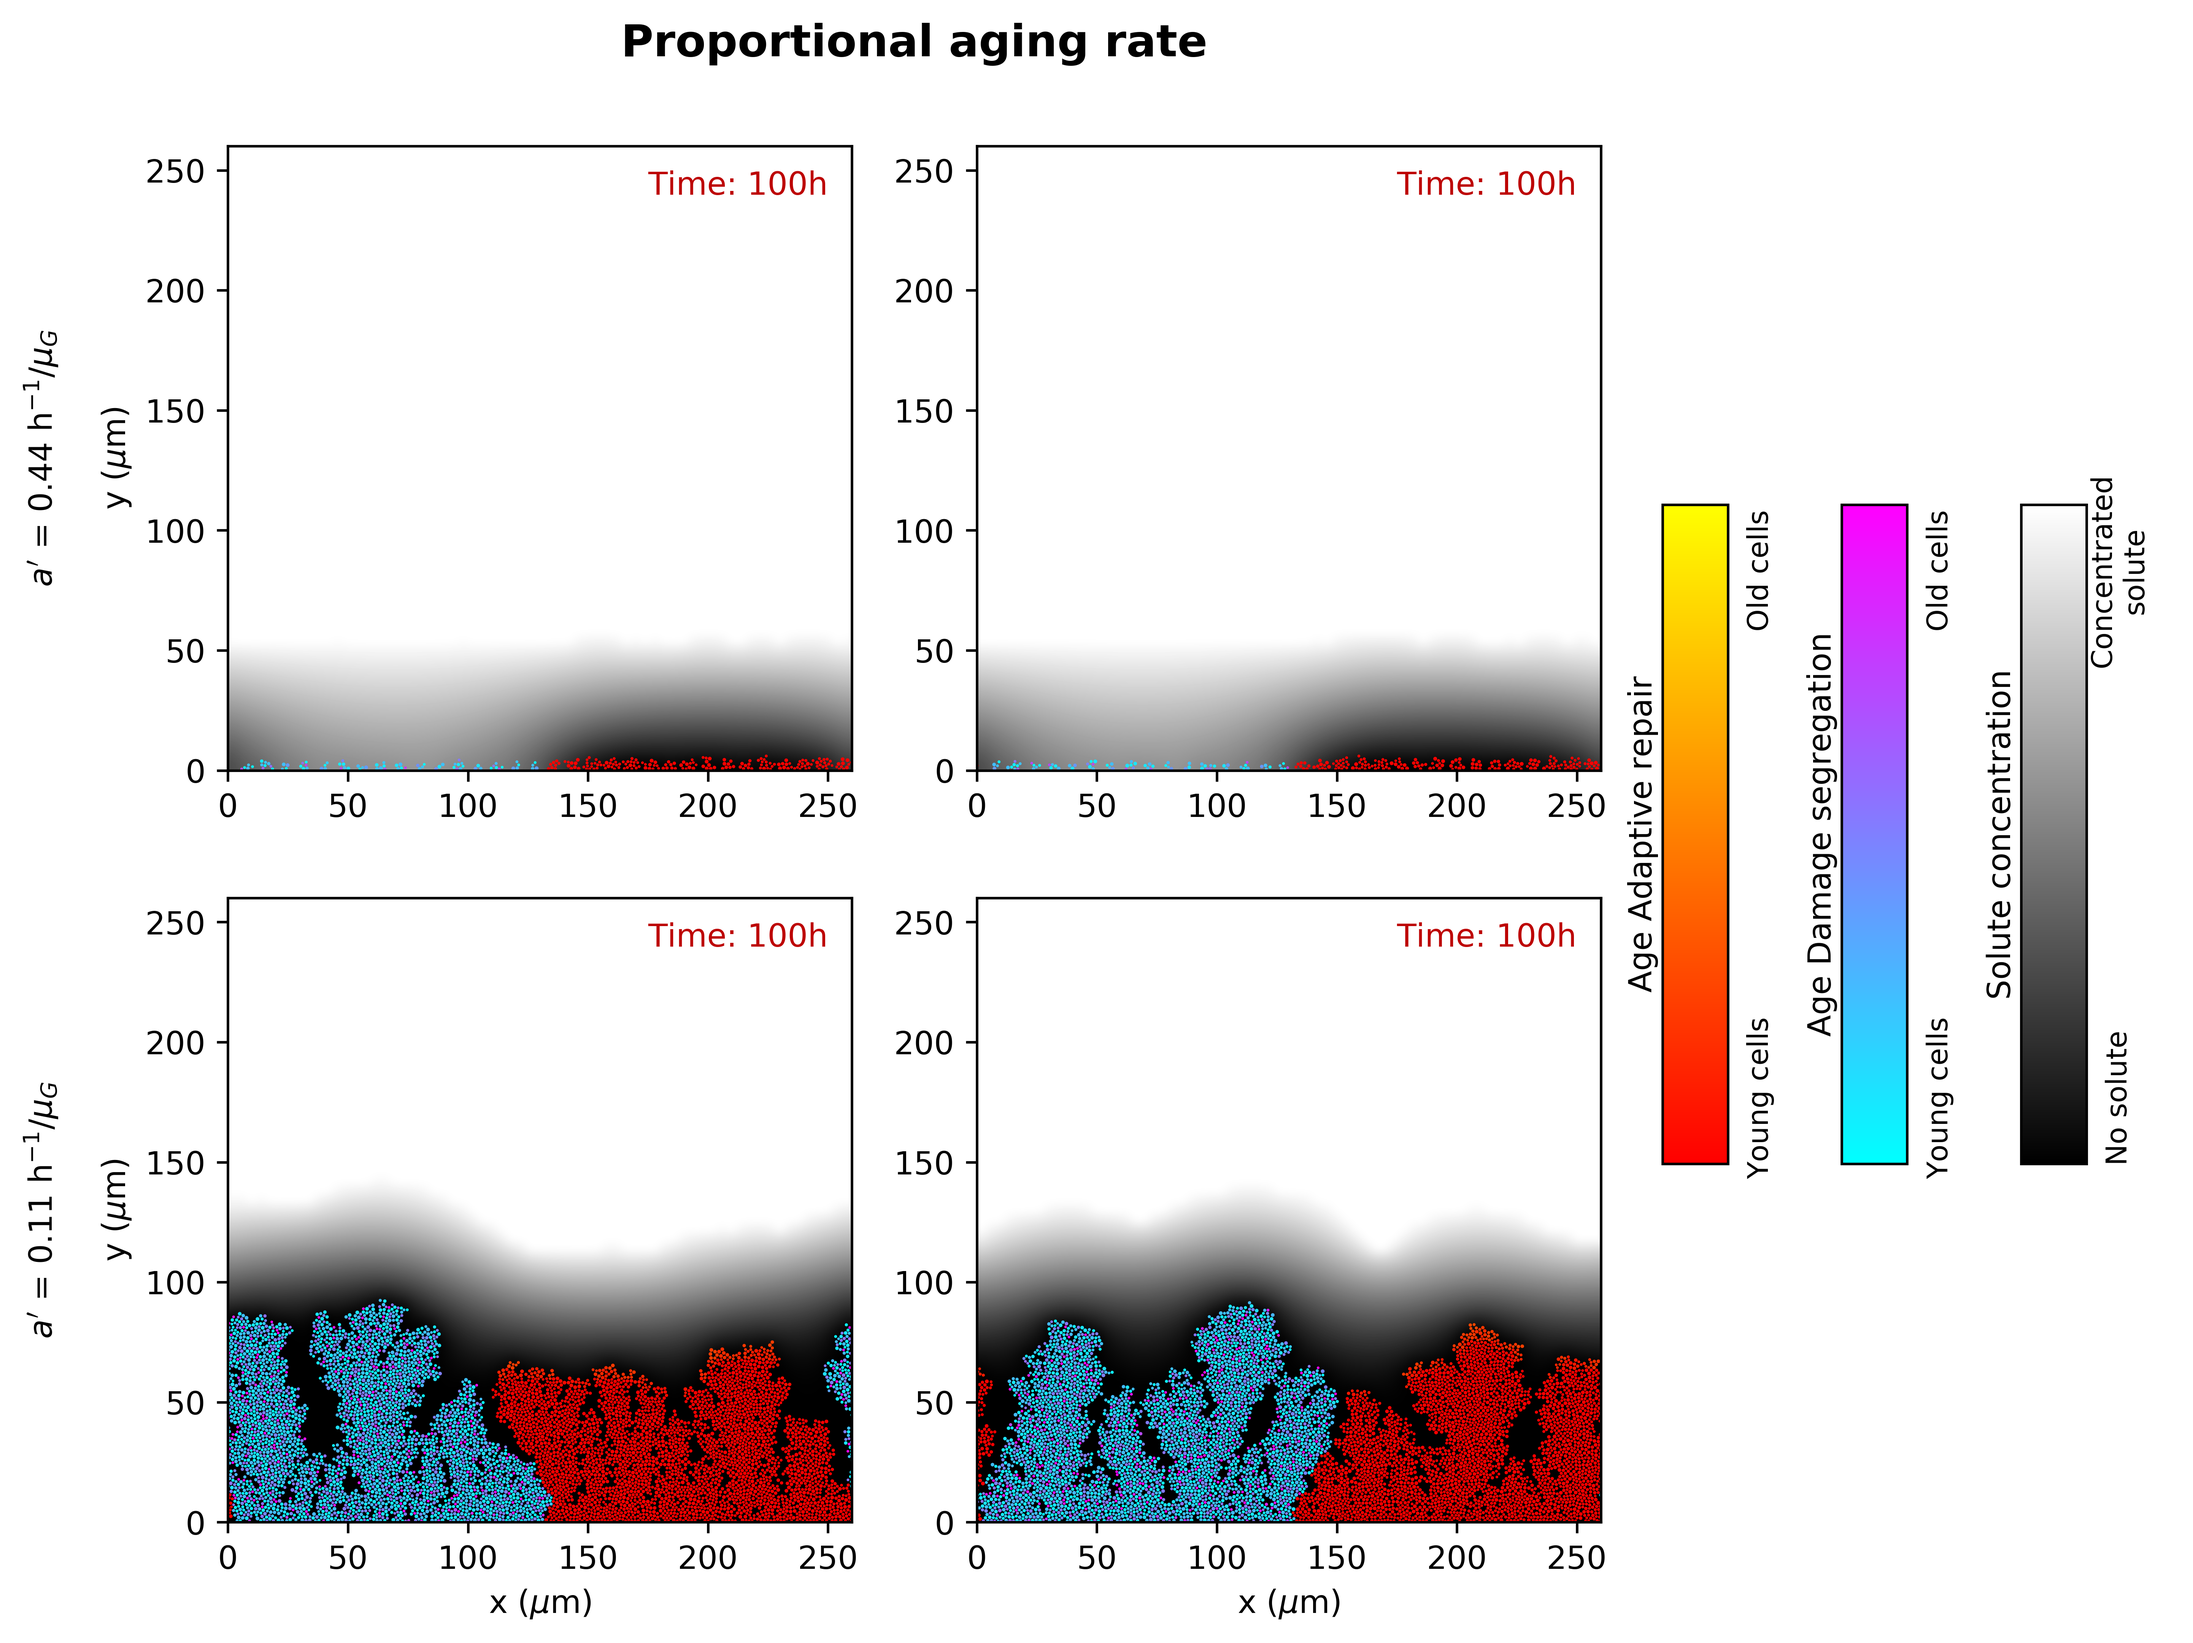
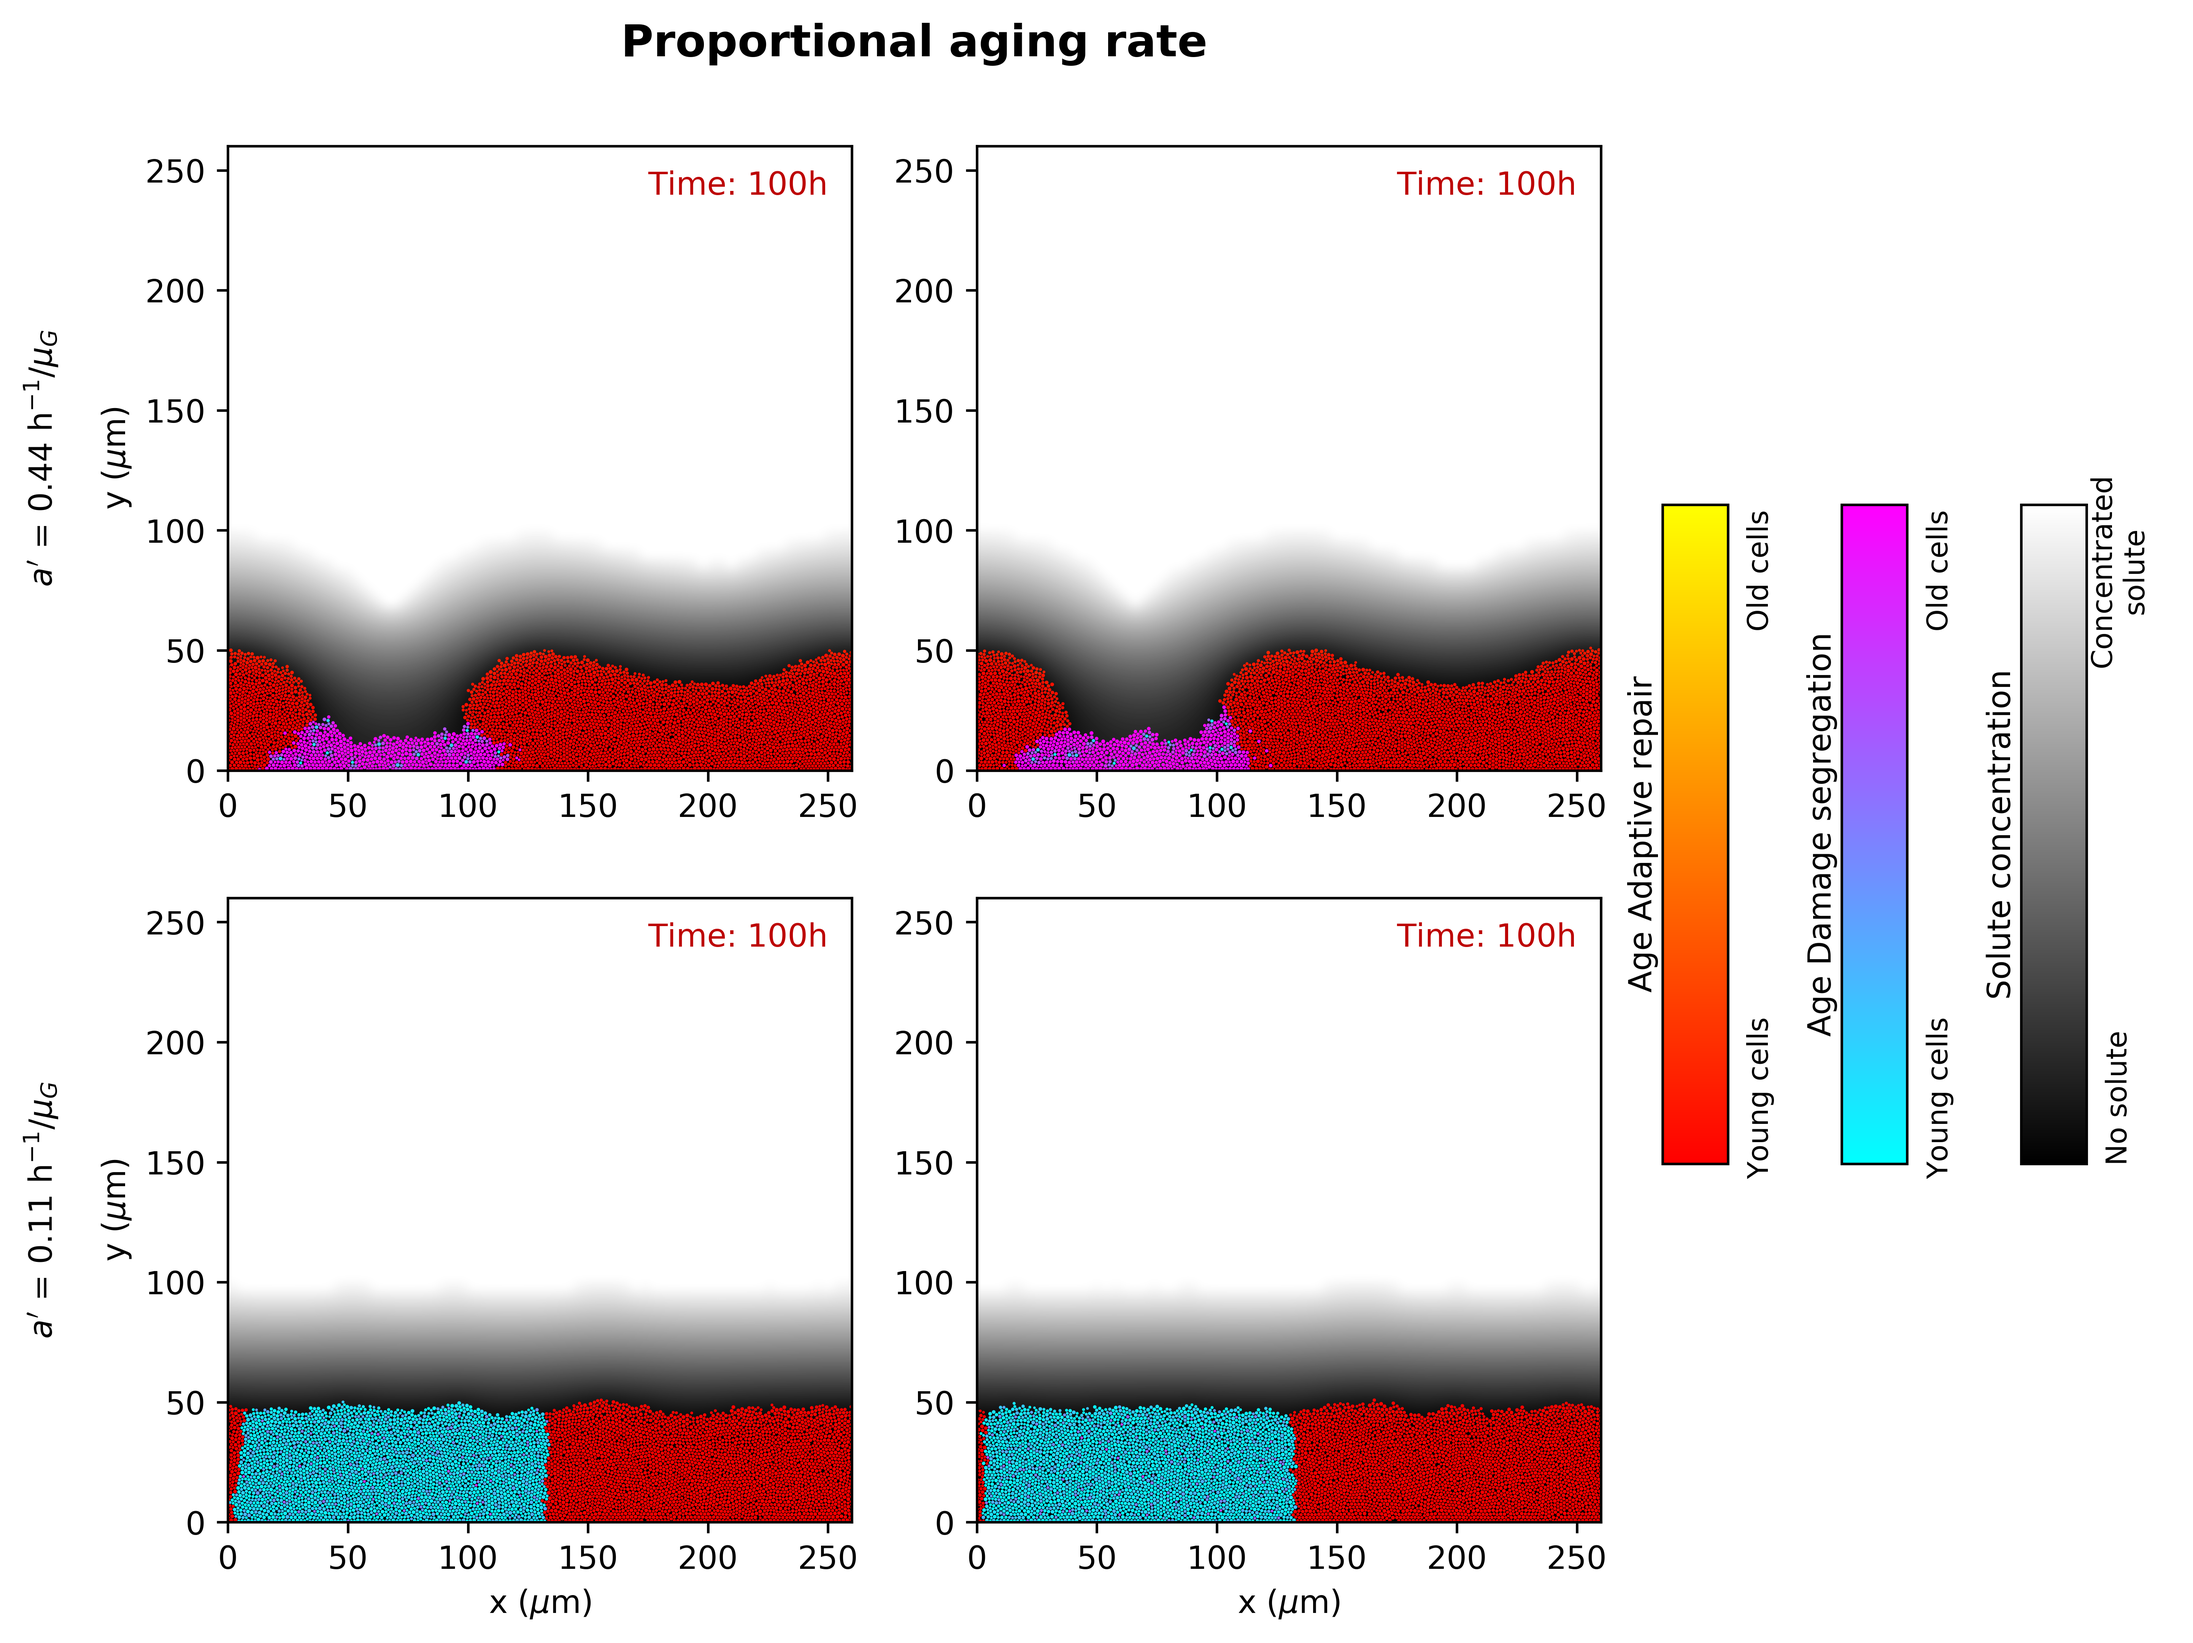
Update 29th July 2020

diff --git a/biofilm_manuscript_results_analysis/make_additional_plots.py b/biofilm_manuscript_results_analysis/make_additional_plots.py
@@ -1,0 +1,115 @@
+#!/usr/bin/env python3
+# -*- coding: utf-8 -*-
+"""
+Created on Tue Jul 28 12:42:45 2020
+
+@author: robynwright
+"""
+
+import matplotlib.pyplot as plt
+import os
+import toolbox_basic as basic
+import toolbox_idynomics
+import toolbox_results as results
+import matplotlib
+
+concs = []
+mumax = 1.2
+conc = []
+Kss = [0.0000534, 0.00234, 0.108]
+colors = ['#D4AC0D', '#2980B9', '#B03A2E']
+labels = [r'K$_S$='+str(a)+r'g L$^{-1}$' for a in Kss]
+ma = 1#0.03556
+
+a = 0
+while a < ma:
+    conc.append(a)
+    a += 0.0000001
+
+
+plt.figure(figsize=(6,5))
+ax1a = plt.subplot2grid((8,2), (0,0), rowspan=3)
+ax1b = plt.subplot2grid((8,2), (0,1), rowspan=3)
+
+for a in range(len(Kss)):
+    Ks = Kss[a]
+    this_plot = []
+    for S in conc:
+        muS = (mumax*S)/(Ks+S)
+        this_plot.append(muS)
+    ax1a.plot(conc, this_plot, color=colors[a], label=labels[a])
+    ax1b.plot(conc, this_plot, color=colors[a], label=labels[a])
+    #plt.semilogx()
+ax1b.legend(loc='upper left', bbox_to_anchor=(1, 1.04))
+ax1a.set_ylabel(r'$\mu$(S)')
+#ax1.set_xlabel(r'$S_{bulk}$ (g L$^{-1}$)')
+ax1a.set_xlim([0, 0.01])
+ax1b.set_xlim([0, 1])
+plt.sca(ax1b)
+plt.yticks([0, 0.5, 1], ['', '', ''])
+plt.xticks([0, 0.5, 1], ['0', '0.5', '1'])
+plt.sca(ax1a)
+plt.xticks([0, 0.005, 0.01], ['0', '0.005', '0.01'])
+
+ax2 = plt.subplot2grid((8,1), (3,0), rowspan=5)
+
+fi = '/Users/robynwright/Documents/OneDrive/Papers_writing/Aging of biofilms/Review 2/New simulations/results_files/side_by_side/5_Sbulk_higher(20200625_0842)'
+
+os.chdir(fi+'/agent_State')
+output = results.AgentOutput(path='agent_State(1000).xml')
+time = (output.time)
+species_color_dict = {'OldieA' : 'cool', 'OldieB' : 'autumn'}
+xlims = {'OldieA':[25, 75], 'OldieB':[175, 225]}
+biomass_names=['activeBiomassGrowth', 'activeBiomassRepair','inactiveBiomassGrowth', 'inactiveBiomassRepair']
+colors, growth_rates, xloc, yloc = [], [], [], []
+for species in output.species_outputs:
+    if species.members == []:
+        continue
+    for cell in species.members:
+        name = species.name
+        x, y = float(cell.vars['locationX']), float(cell.vars['locationY'])
+        """
+        if x > 120:
+            lims = xlims[name]
+            if y >= lims[0] and y <= lims[1]:
+                adding_cell = True
+            else:
+                continue
+        else:
+            continue
+        """
+        lims = xlims[name]
+        for (species_name, colormap_name) in species_color_dict.items():
+            if name == species_name:
+                colormap = matplotlib.cm.get_cmap(colormap_name, 256)
+                norm = matplotlib.colors.Normalize(vmin=0,vmax=1)
+                m = matplotlib.cm.ScalarMappable(norm=norm, cmap=colormap)
+                age = float(cell.vars['age'])
+                cell.color=m.to_rgba(age)
+        spec_growth = float(cell.get_specific_growth_rate(biomass_names))
+        colors.append(cell.color)
+        growth_rates.append(spec_growth)
+        xloc.append(x)
+        yloc.append(y)
+os.chdir(fi+'/env_State')
+output = results.EnvOutput(path='env_State(1000).xml')
+for solute in output.solute_outputs:
+    if solute.name != 'glucose': continue
+    array = solute.concentration_array()
+solute = list(array)
+concs = []
+for a in range(len(colors)):
+    x, y = int(xloc[a]/4), int(yloc[a]/4)
+    conc = solute[x][y]
+    concs.append(conc)
+    ax2.scatter(conc, growth_rates[a], color=colors[a], s=20, edgecolors='gray', linewidths=0.1)
+ax2.set_xlim([0, 0.006])
+ax2.set_ylabel(r'$\mu$(S)')
+ax2.set_xlabel(r'$S$ (g L$^{-1}$)')
+
+ax1a.set_title('A', loc='left', fontweight='bold', fontsize=12)
+ax1b.set_title('B', loc='left', fontweight='bold', fontsize=12)
+ax2.text(.01,.9,'C', horizontalalignment='left', transform=ax2.transAxes, fontweight='bold', fontsize=12)
+
+plt.subplots_adjust(hspace=1, wspace=0.1)
+plt.savefig('/Users/robynwright/Documents/GitHub/iDynoMiCS_1.5/biofilm_manuscript_results_analysis/additional_plots/spec_growth.png', dpi=600, bbox_inches='tight')

diff --git a/biofilm_manuscript_results_analysis/vary_parameters_prop_biofilm_analysis.py b/biofilm_manuscript_results_analysis/vary_parameters_prop_biofilm_analysis.py
@@ -307,7 +307,7 @@ for f in files:
 #This should be the only parameter to change to switch between growth rate and age plots
 #arate=True - plotting biofilms where cells are colored by age
 #arate=False - plotting biofilms where cells are colored by specific growth rate
-arate=True
+arate=False
 
 """
 #Start of biofilm individual plots
@@ -486,9 +486,10 @@ plt.savefig('Log specgrowthrate ratios sbs '+calc+'.png', bbox_inches='tight', d
 #End of log biomass ratios of side-by-side competitions
 """
 #Individual biofilm plots for side-by-side simulations
-sets = ['5_Sbulk', '5_Sbulk', '6_Ks', '7_aging']
-for a in range(len(sets)):
-    if a != 1: continue
+sets = ['5_Sbulk', '6_Ks', '7_aging', '5_Sbulk']
+for z in range(len(sets)):
+    a = z
+    if a == 3: a = 0
     fig = plt.figure(figsize=(12, 8))
     ax_high = [plt.subplot(2,3,1), plt.subplot(2,3,2)]
     ax_low = [plt.subplot(2,3,4), plt.subplot(2,3,5)]
@@ -500,9 +501,9 @@ for a in range(len(sets)):
     get_colorbar(colbar, 'gray', 'Solute', 'left', arate=arate) #solute
     hc, lc = 0, 0
     for b in range(len(fol)):
-        if a == 0:
+        if z == 0:
             if 'ry100' in fol[b]: continue
-        elif a == 1:
+        elif z == 3:
             if 'ry100' not in fol[b] and 'styrofoam' not in fol[b]: continue
         if sets[a] in fol[b] and '.gif' not in fol[b]:
             if 'higher' in fol[b] and 'styrofoam' not in fol[b]:
@@ -525,14 +526,14 @@ for a in range(len(sets)):
     
     plt.subplots_adjust(hspace=0.2, wspace=0.2)
     os.chdir('/Users/robynwright/Documents/GitHub/iDynoMiCS_1.5/biofilm_manuscript_results_analysis/vary_parameters')
-    if a == 1: names[a+4] = names[a+4]+'_repy100'
+    if z == 3: names[a+4] = names[a+4]+'_repy100'
     if arate:
         plt.savefig('Side-by-side '+names[a+4]+'.png', dpi=600, bbox_inches='tight')
     else:
         plt.savefig('Side-by-side '+names[a+4]+'_growthRate.png', dpi=600, bbox_inches='tight')
     plt.close()
 
-
+"""
 calc = 'min'
 ax1 = plt.subplot(111)
 fol_name = '/Users/robynwright/Documents/OneDrive/Papers_writing/Aging of biofilms/Review 2/New simulations/results_files/side_by_side/'
@@ -556,3 +557,4 @@ ax1.legend(handles=handles, loc='upper left', bbox_to_anchor=(0,1))
 os.chdir('/Users/robynwright/Documents/GitHub/iDynoMiCS_1.5/biofilm_manuscript_results_analysis/vary_parameters')
 #plt.savefig('Yr100 specific growthrate '+calc+'.png', dpi=600, bbox_inches='tight')
 plt.savefig('Yr100 biomass.png', dpi=600, bbox_inches='tight')    
+"""
